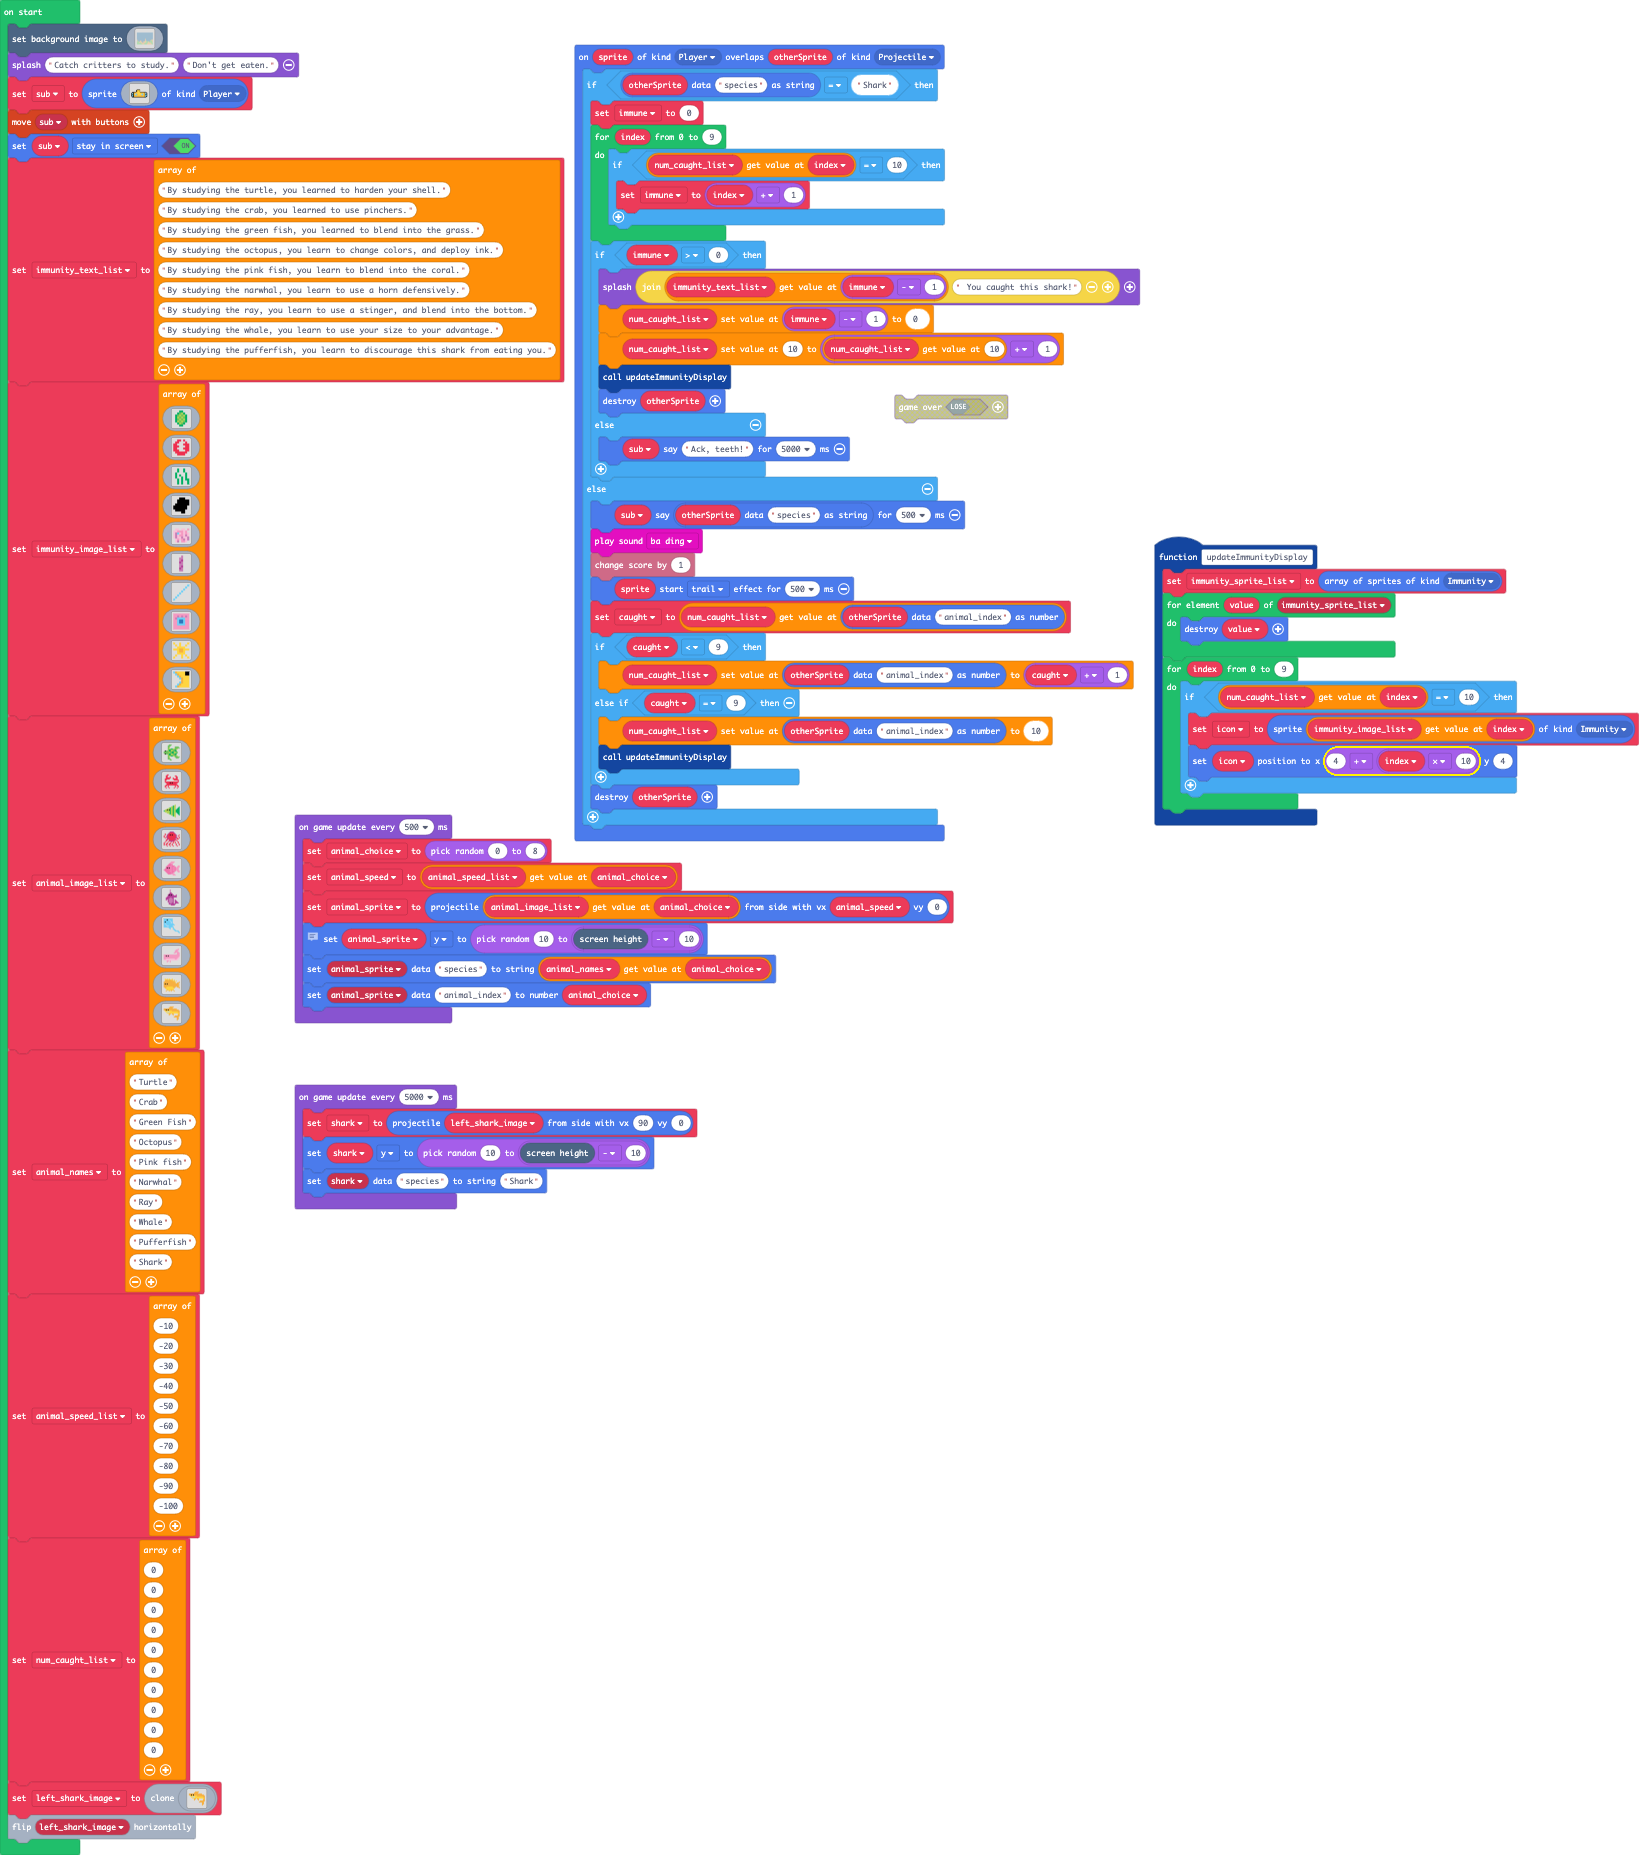
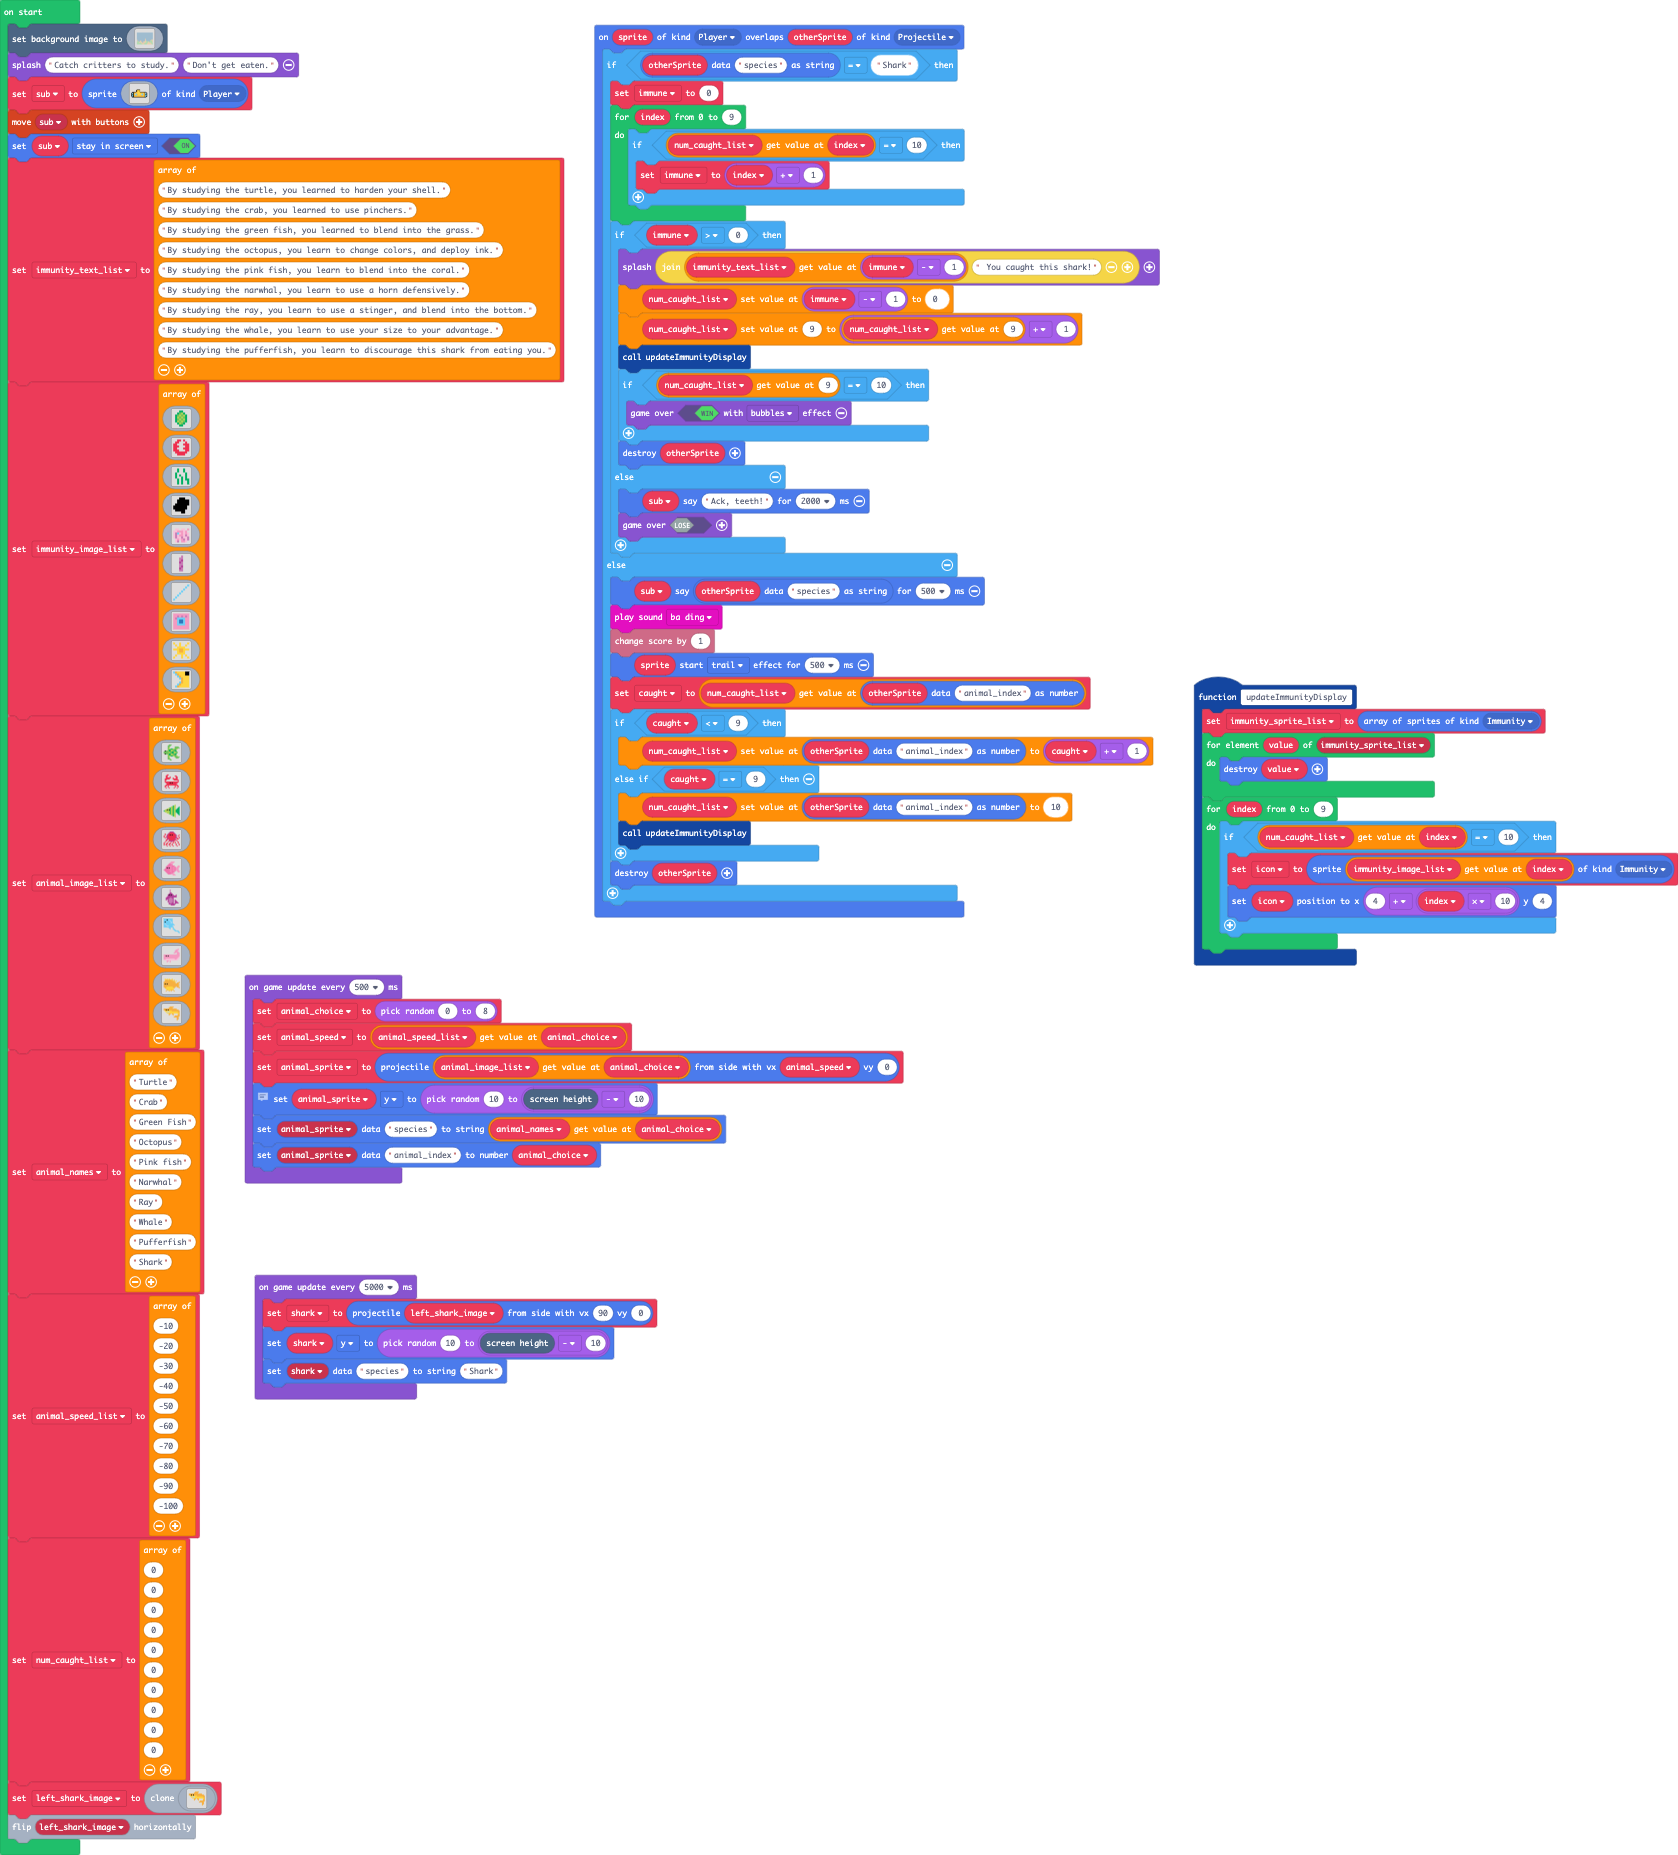
Catching 10 Sharks Wins

Changed region(s): [[0.0, 0.0, 1.0, 1.0]]

diff --git a/main.ts b/main.ts
@@ -64,11 +64,15 @@ sprites.onOverlap(SpriteKind.Player, SpriteKind.Projectile, function (sprite, ot
         if (immune > 0) {
             game.splash("" + immunity_text_list[immune - 1] + " You caught this shark!")
             num_caught_list[immune - 1] = 0
-            num_caught_list[10] = num_caught_list[10] + 1
+            num_caught_list[9] = num_caught_list[9] + 1
             updateImmunityDisplay()
+            if (num_caught_list[9] == 10) {
+                game.over(true, effects.bubbles)
+            }
             otherSprite.destroy()
         } else {
-            sub.say("Ack, teeth!", 5000)
+            sub.say("Ack, teeth!", 2000)
+            game.over(false)
         }
     } else {
         sub.say(sprites.readDataString(otherSprite, "species"), 500)
